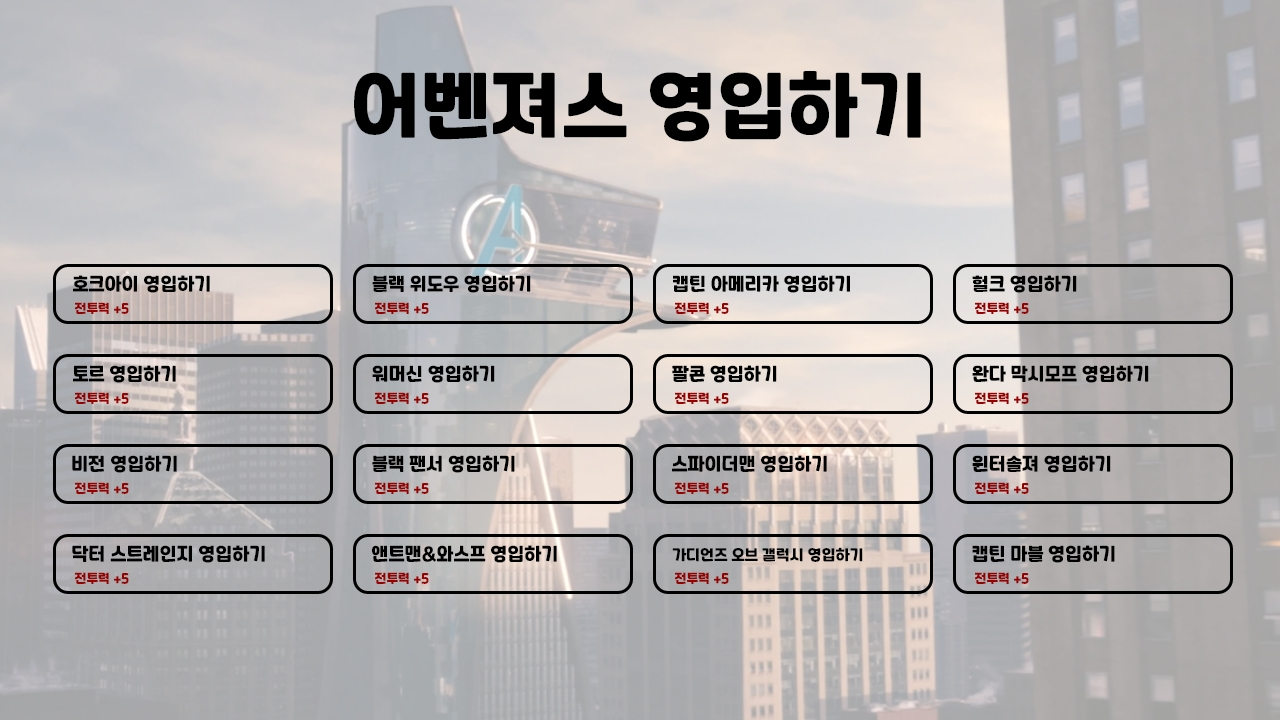
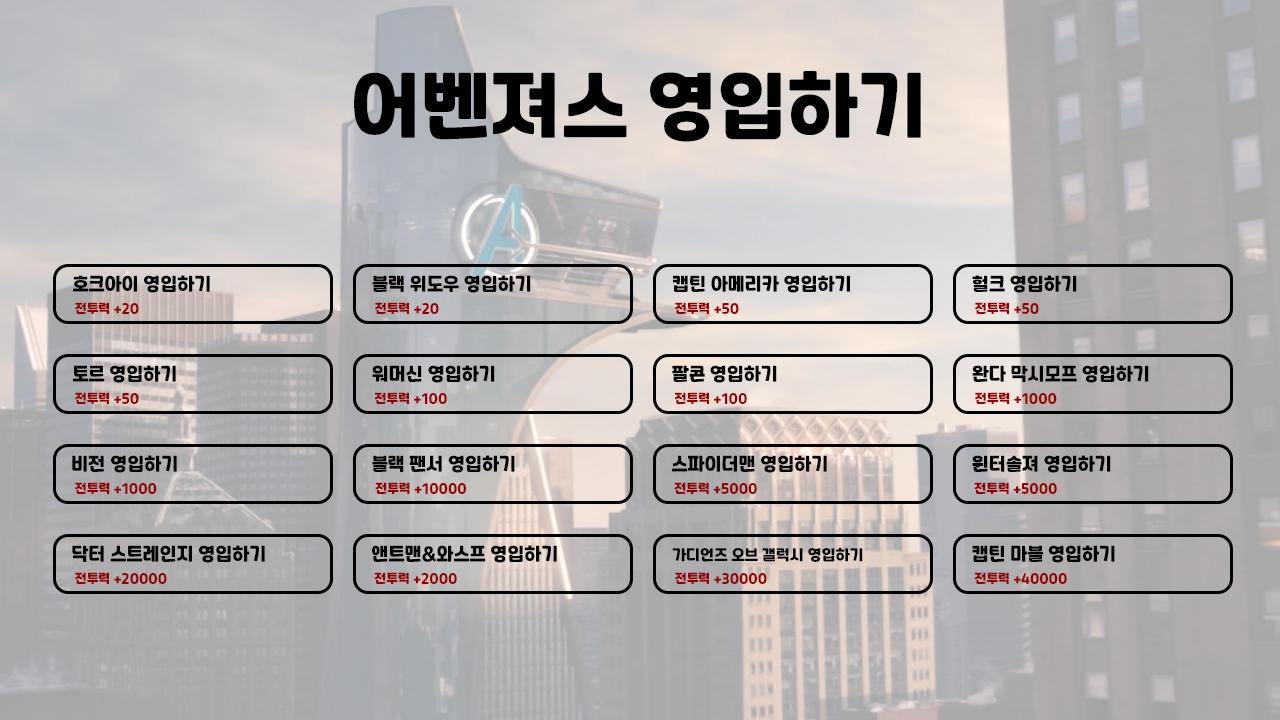
still not done

diff --git a/week7_game/week7_game.cpp b/week7_game/week7_game.cpp
@@ -1,12 +1,15 @@
 #define _CRT_SECURE_NO_WARNINGS
 #include <bangtal.h>
 #include <stdio.h>
+#include <stdlib.h>
+#include <time.h>
+#include <math.h>
 SceneID scene_Start, scene_Cave, scene_Upgrade, scene_Armor, scene_Avengers_Facility, scene_Avengers_Recruit, scene_Villain;
 ObjectID icon_Start, icon_Support, icon_Upgrade, icon_Back, icon_Avengers_Facility, icon_Recruit, icon_Test, icon_Boss_Stage, icon_Attack;
 ObjectID icon_Upgrade_Suit[8], icon_Anvil[8], ironman_Suit, avengers[16], icon_Avengers[16], icon_Avengers_Block[16];
 
 int scene_Upgrade_Y[8] = { 450, 350, 250, 150 };
-int anvil_Y[8] = { 450, 350, 250, 150, 450, 350, 250, 150 };
+int anvil_Y[8] = { 460, 360, 260, 160, 460, 360, 260, 160 };
 int avengers_X[16] = {62, 180, 290, 420, 560, 720, 860, 980, 1100, 56, 197, 346, 454, 591, 823, 1131};
 int icon_Avengers_X[4] = {275,575,875,1175};
 int icon_Avengers_Y[4] = { 405, 315, 225, 135 };
@@ -14,16 +17,19 @@ int icon_Avengers_Block_X[4] = {53, 353,653, 953};
 int icon_Avengers_Block_Y[4] = {396, 306, 216, 126};
 bool avengers_Status[16] = { 0,0,0,0,0,0,0,0,0,0,0,0,0,0,0,0 };
 bool avengers_Possible[16] = { 0, 0, 0, 0, 0, 0, 0, 0, 0, 0, 0, 0, 0, 0, 0, 0};
+double damage_Multiple[9] = {1.0, 1.0, 1.1, 1.2, 1.3, 1.5, 1.7, 2, 3 };
 
 int avengers_Damage[16] = { 20, 20, 50, 50, 50, 100, 100, 1000, 1000, 10000, 5000, 5000, 20000, 2000, 30000, 40000 };
 int villain_Damage[12] = { 5, 10, 40, 100, 150, 400, 500, 2500, 4500, 10000, 50000, 150000 };
 
 int upgrade_Status = 0;
 int support_Status = 0;
-int damage_Status = 150000;
+int damage_Status = 10;
 int boss_Status = 0;
 int attack_Count = 0;
 int boss_Hp = 0;
+int damage_Maximum = 0;
+int damage_Minimum = 0;
 
 char icon_Upgrade_Image[20];
 char ironman_Suit_Image[345];
@@ -77,6 +83,12 @@ void avengersPossible(int i) {
         }
 }
 
+int damage_Calculate() {
+    damage_Maximum = floor(damage_Status * damage_Multiple[upgrade_Status]);
+    damage_Minimum = ceil(damage_Status * 9 / 10);
+    return damage_Minimum + (rand() % (damage_Maximum - damage_Minimum + 1));
+}
+
 void recruitScene() {
     for (int i = 0; i < 16; i++) {
         hideObject(icon_Avengers_Block[i]);
@@ -117,7 +129,7 @@ void avengersFacilityScene() {
         }
         else {
             locateObject(avengers[i], scene_Avengers_Facility, avengers_X[i], 170);
-        }
+        }  
         if (avengers_Status[i]) {
             showObject(avengers[i]);
         }
@@ -132,7 +144,7 @@ void upgradeScene() {
     enterScene(scene_Upgrade);
 
     for (int i = 0; i < 8; i++) {
-        sprintf(icon_Upgrade_Image, "Images\\icon_Upgrade_%d.png", i + 1);
+        sprintf(icon_Upgrade_Image, "Images\\icon_Upgrade\\icon_Upgrade_%d.png", i);
         icon_Upgrade_Suit[i] = createObject(icon_Upgrade_Image);
         if (i < upgrade_Status + 1) {
             icon_Anvil[i] = createObject("Images\\icon_Anvil.png");
@@ -142,10 +154,10 @@ void upgradeScene() {
         }
         if (i < 4) {
             locateObject(icon_Upgrade_Suit[i], scene_Upgrade, 100, scene_Upgrade_Y[i]);
-            locateObject(icon_Anvil[i], scene_Upgrade, 530, anvil_Y[i]);
+            locateObject(icon_Anvil[i], scene_Upgrade, 520, anvil_Y[i]);
         } else {
             locateObject(icon_Upgrade_Suit[i], scene_Upgrade, 680, scene_Upgrade_Y[i - 4]);
-            locateObject(icon_Anvil[i], scene_Upgrade, 1110, anvil_Y[i]);
+            locateObject(icon_Anvil[i], scene_Upgrade, 1100, anvil_Y[i]);
         }
         showObject(icon_Upgrade_Suit[i]);
         showObject(icon_Anvil[i]);
@@ -164,12 +176,14 @@ void battleScene() {
     scene_Villain = createScene("r", scene_Boss_Battle);
     enterScene(scene_Villain);
 
+    locateObject(ironman_Suit, scene_Villain, 100, 30);
+    showObject(ironman_Suit);
+
     icon_Attack = createObject("Images\\icon_Attack.png");
     locateObject(icon_Attack, scene_Villain, 480, 0);
     showObject(icon_Attack);
 
-    locateObject(ironman_Suit, scene_Villain, 100, 100);
-    showObject(ironman_Suit);
+
 
 }
 
@@ -191,7 +205,7 @@ void mainScene() {
         locateObject(ironman_Suit, scene_Armor, 500, 100);
     }
     showObject(ironman_Suit);
-    ////////////////////////////////////////sceneCave/scene_Armor 구분 함수 만들면 깔끔
+
     sprintf(icon_Boss, "Images\\villain\\icon_Villain_%d.png", boss_Status);
     icon_Boss_Stage = createObject(icon_Boss);
     if (upgrade_Status < 2) {
@@ -202,22 +216,17 @@ void mainScene() {
     }
     showObject(icon_Boss_Stage);
 
-
-    icon_Support = createObject("Images\\icon_Support.png");
     icon_Upgrade = createObject("Images\\icon_Upgrade.png");
     icon_Recruit = createObject("Images\\icon_Recruit.png");
     icon_Avengers_Facility = createObject("Images\\icon_Avengers_Facility.png");
     if (upgrade_Status < 2) {
-        locateObject(icon_Support, scene_Cave, 0, 0);
-        locateObject(icon_Upgrade, scene_Cave, 700, 0);
+        locateObject(icon_Upgrade, scene_Cave, 800, 10);
     }
     else if (upgrade_Status < 9) {
-        locateObject(icon_Support, scene_Armor, 0, 0);
-        locateObject(icon_Upgrade, scene_Armor, 1000, 0);
-        locateObject(icon_Recruit, scene_Armor, 500, 0);
-        locateObject(icon_Avengers_Facility, scene_Armor, 0, 400);
+        locateObject(icon_Upgrade, scene_Armor, 800, 10);
+        locateObject(icon_Recruit, scene_Armor, 100, 10);
+        locateObject(icon_Avengers_Facility, scene_Armor, 10, 400);
     }
-    showObject(icon_Support);
     showObject(icon_Upgrade);
     showObject(icon_Recruit);
     showObject(icon_Avengers_Facility);
@@ -262,7 +271,7 @@ void mouseCallback(ObjectID object, int x, int y, MouseAction action) {
         }
     }
     if (object == icon_Attack) {
-        boss_Hp = boss_Hp - damage_Status;
+        boss_Hp = boss_Hp - damage_Calculate();
         attack_Count++;
         printf("%d %d %d \n", boss_Hp, attack_Count, boss_Status);
         if (boss_Hp < 1) {
@@ -280,6 +289,8 @@ void mouseCallback(ObjectID object, int x, int y, MouseAction action) {
 int main()
 {
     setMouseCallback(mouseCallback);
+
+    srand(time(NULL));
 
     scene_Start = createScene("Room1", "Images\\scene_Start.png");
     scene_Cave = createScene("Room1", "Images\\scene_Cave.png");
